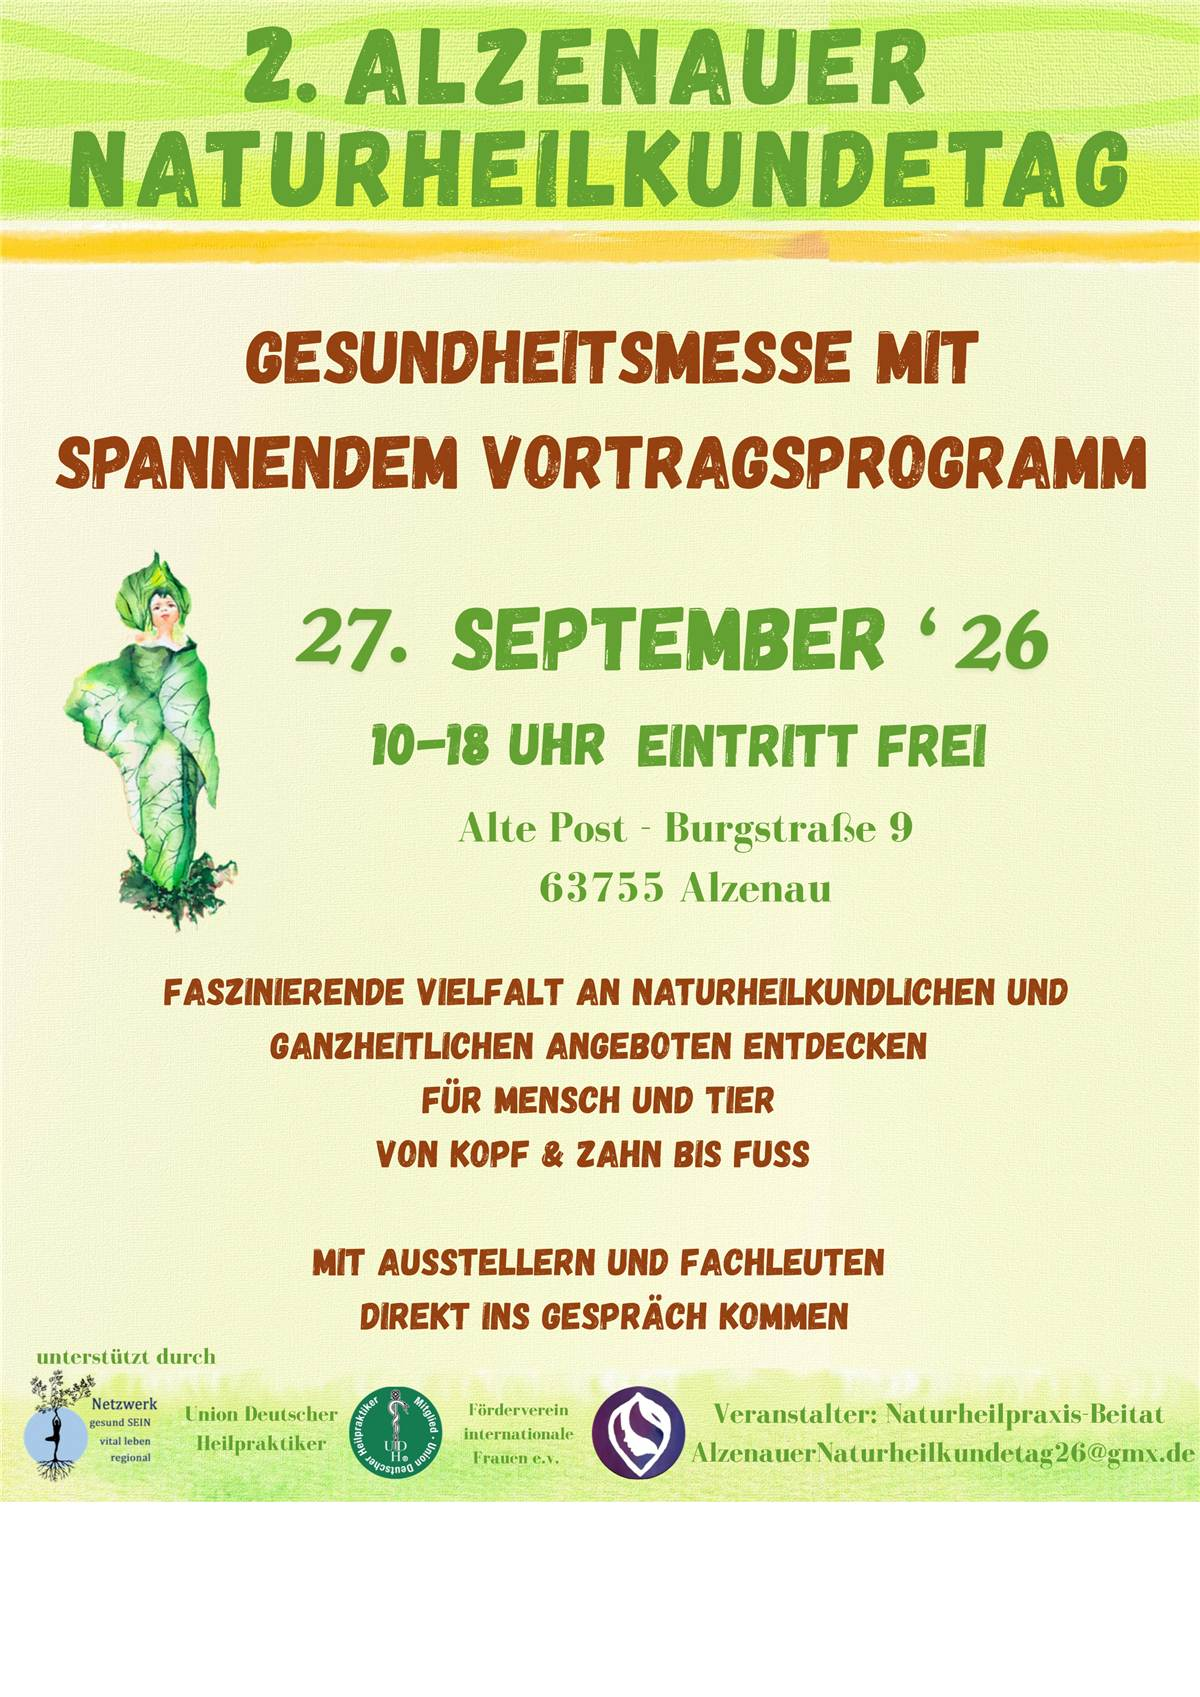
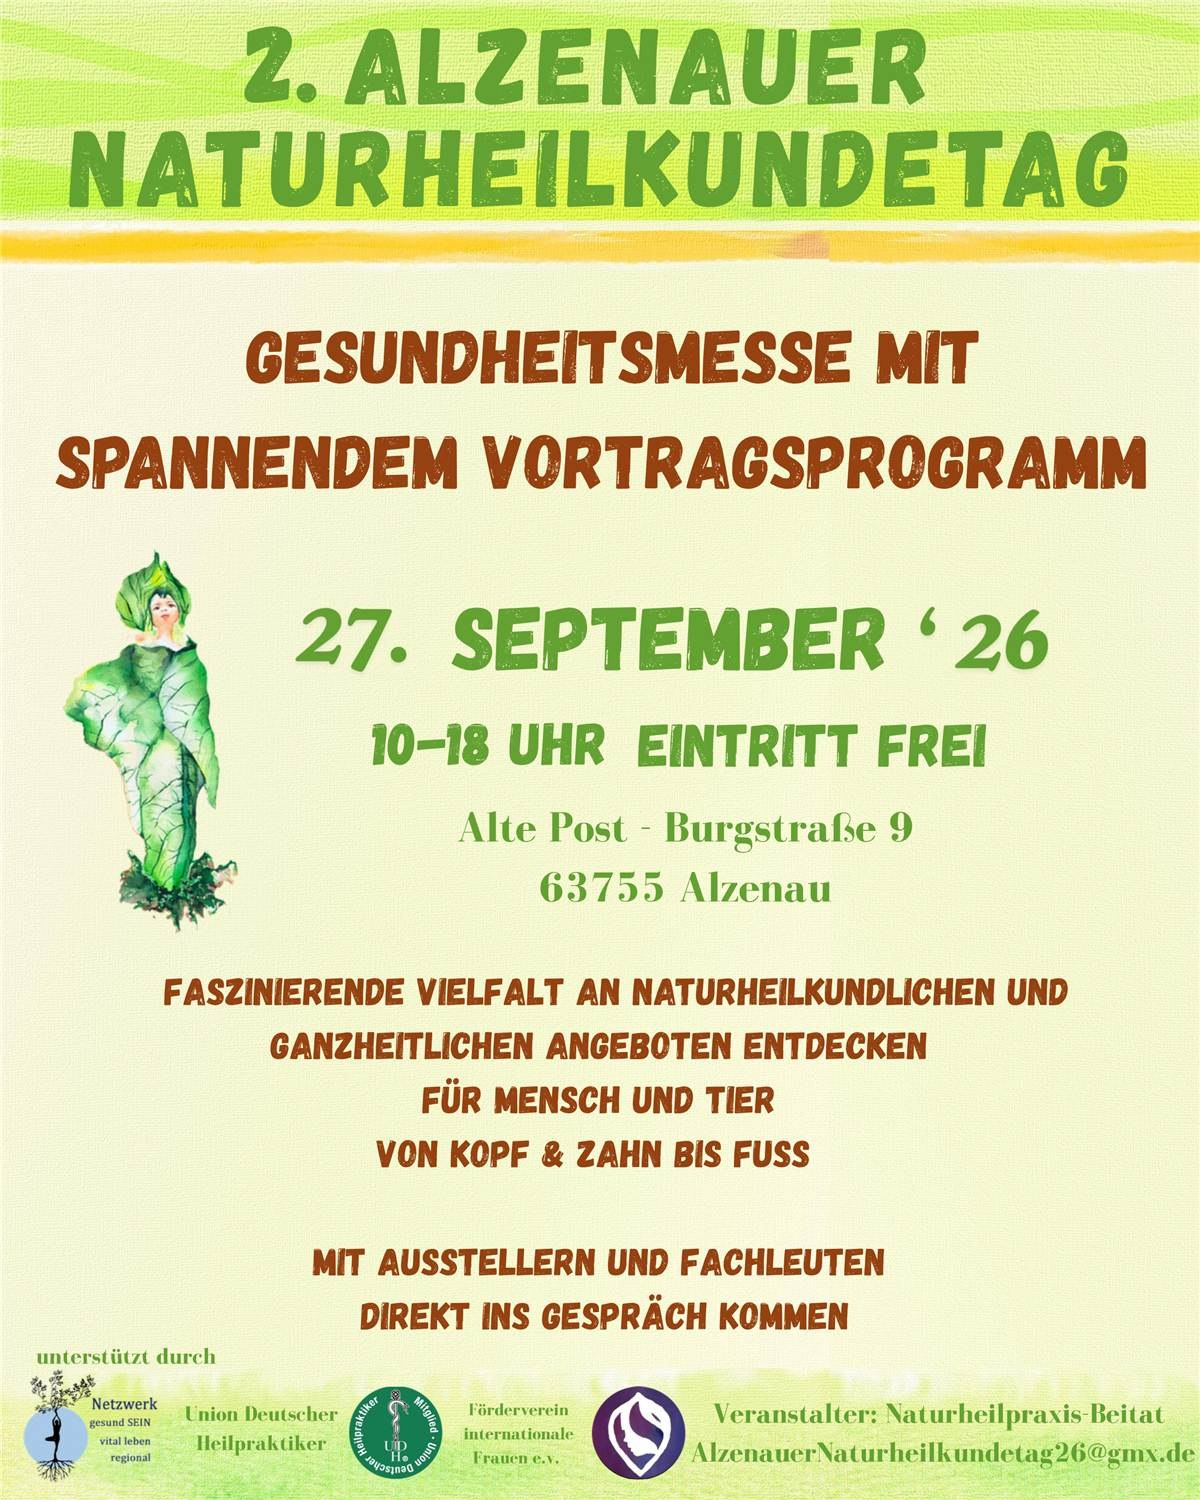
Flyer-Bilder: Leerraum entfernt, Lightbox statt neuem Tab
- naturheilkundetag-flyer-s1/s2.jpg und vortragsprogramm-raum1.jpg am
  unteren Rand auf den tatsaechlichen Inhalt zugeschnitten (vorher
  teils reines Weiss als Leerraum).
- Klick auf ein Flyer-/Dokumentbild oeffnet es jetzt als abgedunkeltes
  Overlay im selben Tab (assets/js/lightbox.js) statt in neuem Tab,
  schliessbar per Klick daneben, X-Button oder Escape.

diff --git a/prototype/events-naturheilkundetag.html b/prototype/events-naturheilkundetag.html
@@ -51,7 +51,7 @@
 <section class="content-section">
   <div class="container two-col">
     <div class="event-hero-flyer">
-      <a href="assets/img/naturheilkundetag-flyer-s1.jpg" target="_blank" rel="noopener" aria-label="Flyer Seite 1 in voller Größe ansehen">
+      <a class="lightbox-link" href="assets/img/naturheilkundetag-flyer-s1.jpg" aria-label="Flyer Seite 1 vergrößert anzeigen">
         <img src="assets/img/naturheilkundetag-flyer-s1.jpg" alt="Flyer 2. Alzenauer Naturheilkundetag, Seite 1: Gesundheitsmesse mit Vortragsprogramm, 27. September 2026, 10–18 Uhr, Alte Post, Burgstraße 9, 63755 Alzenau, Eintritt frei">
         <span class="img-zoom-hint">🔍 Zum Vergrößern anklicken</span>
       </a>
@@ -69,7 +69,7 @@
 
 <section class="content-section">
   <div class="container">
-    <a href="assets/img/naturheilkundetag-flyer-s2.jpg" target="_blank" rel="noopener" aria-label="Flyer Seite 2 in voller Größe ansehen" style="display:inline-block; max-width:520px;">
+    <a class="lightbox-link" href="assets/img/naturheilkundetag-flyer-s2.jpg" aria-label="Flyer Seite 2 vergrößert anzeigen" style="display:inline-block; max-width:520px;">
       <img src="assets/img/naturheilkundetag-flyer-s2.jpg" alt="Flyer Seite 2: Was es zu entdecken gibt – Aussteller und Vortragsprogramm, Erfrischungsgetränke und Spezialitäten der türkischen Küche, Catering vom Hilfs- und Förderverein der Internationalen Frauen e.V." style="border-radius: var(--radius); box-shadow: 0 12px 32px rgba(10,90,22,0.18);">
       <span class="img-zoom-hint">🔍 Zum Vergrößern anklicken</span>
     </a>
@@ -81,7 +81,7 @@
     <h2>Aussteller</h2>
     <p>Das vollständige Ausstellerverzeichnis mit allen Fachrichtungen im Überblick:</p>
     <div class="doc-image-block">
-      <a href="assets/img/naturheilkundetag-ausstellerverzeichnis.jpg" target="_blank" rel="noopener" aria-label="Ausstellerverzeichnis in voller Größe ansehen">
+      <a class="lightbox-link" href="assets/img/naturheilkundetag-ausstellerverzeichnis.jpg" aria-label="Ausstellerverzeichnis vergrößert anzeigen">
         <img class="doc-page" src="assets/img/naturheilkundetag-ausstellerverzeichnis.jpg" alt="Ausstellerverzeichnis 2. Alzenauer Naturheilkundetag, gegliedert nach Medizinischen & Therapeutischen Fachberufen sowie Ganzheitlicher Beratung, Wellness & Entspannung">
         <span class="img-zoom-hint">🔍 Zum Vergrößern anklicken</span>
       </a>
@@ -101,7 +101,7 @@
     <h2>Vortragsprogramm</h2>
     <h3>Raum 1 – Hahnenkamm</h3>
     <div class="doc-image-block">
-      <a href="assets/img/naturheilkundetag-vortragsprogramm-raum1.jpg" target="_blank" rel="noopener" aria-label="Vortragsprogramm Raum 1 in voller Größe ansehen">
+      <a class="lightbox-link" href="assets/img/naturheilkundetag-vortragsprogramm-raum1.jpg" aria-label="Vortragsprogramm Raum 1 vergrößert anzeigen">
         <img class="doc-page" src="assets/img/naturheilkundetag-vortragsprogramm-raum1.jpg" alt="Vortragsprogramm Raum 1 – Hahnenkamm: neun Vorträge mit Uhrzeiten, Referent/in und Vortragstitel">
         <span class="img-zoom-hint">🔍 Zum Vergrößern anklicken</span>
       </a>
@@ -152,5 +152,6 @@
 </div>
 
 <script src="assets/js/nav.js"></script>
+<script src="assets/js/lightbox.js"></script>
 </body>
 </html>

diff --git a/prototype/praxis-schwerpunkte.html b/prototype/praxis-schwerpunkte.html
@@ -52,7 +52,7 @@
     <div class="card-grid">
 
       <div class="img-card">
-        <a class="thumb" href="assets/img/flyer-kreuz.webp" target="_blank" rel="noopener" aria-label="Flyer „Das Kreuz mit dem Kreuz" in voller Größe ansehen">
+        <a class="thumb lightbox-link" href="assets/img/flyer-kreuz.webp" aria-label="Flyer „Das Kreuz mit dem Kreuz" vergrößert anzeigen">
           <img src="assets/img/flyer-kreuz.webp" alt="Flyer: Das Kreuz mit dem Kreuz – Naturheilkunde und Schmerztherapie">
           <span class="img-zoom-hint">🔍 Zum Vergrößern anklicken</span>
         </a>
@@ -64,7 +64,7 @@
       </div>
 
       <div class="img-card">
-        <a class="thumb" href="assets/img/flyer-darm.webp" target="_blank" rel="noopener" aria-label="Flyer „Mein Freund der Darm" in voller Größe ansehen">
+        <a class="thumb lightbox-link" href="assets/img/flyer-darm.webp" aria-label="Flyer „Mein Freund der Darm" vergrößert anzeigen">
           <img src="assets/img/flyer-darm.webp" alt="Flyer: Mein Freund der Darm – Ganzheitliche Naturheilkunde">
           <span class="img-zoom-hint">🔍 Zum Vergrößern anklicken</span>
         </a>
@@ -76,7 +76,7 @@
       </div>
 
       <div class="img-card">
-        <a class="thumb" href="assets/img/flyer-stress-vs.jpg" target="_blank" rel="noopener" aria-label="Flyer „Lässig statt stressig" in voller Größe ansehen">
+        <a class="thumb lightbox-link" href="assets/img/flyer-stress-vs.jpg" aria-label="Flyer „Lässig statt stressig" vergrößert anzeigen">
           <img src="assets/img/flyer-stress-vs.jpg" alt="Flyer: Lässig statt stressig – Ganzheitliche Stress-Medizin &amp; Achtsamkeitstraining">
           <span class="img-zoom-hint">🔍 Zum Vergrößern anklicken</span>
         </a>
@@ -88,7 +88,7 @@
       </div>
 
       <div class="img-card">
-        <a class="thumb" href="assets/img/flyer-frau.webp" target="_blank" rel="noopener" aria-label="Flyer „Von Frau zu Frau" in voller Größe ansehen">
+        <a class="thumb lightbox-link" href="assets/img/flyer-frau.webp" aria-label="Flyer „Von Frau zu Frau" vergrößert anzeigen">
           <img src="assets/img/flyer-frau.webp" alt="Flyer: Von Frau zu Frau – Ganzheitliche Frauenheilkunde">
           <span class="img-zoom-hint">🔍 Zum Vergrößern anklicken</span>
         </a>
@@ -137,5 +137,6 @@
 </div>
 
 <script src="assets/js/nav.js"></script>
+<script src="assets/js/lightbox.js"></script>
 </body>
 </html>

diff --git a/prototype/assets/js/lightbox.js b/prototype/assets/js/lightbox.js
@@ -1,0 +1,50 @@
+// Lightbox fuer Flyer-/Dokumentbilder: vergroessert im selben Tab statt neuem Tab,
+// abgedunkelter Hintergrund, Klick ausserhalb des Bildes (oder Escape) schliesst es.
+// Betrifft alle <a class="lightbox-link"> mit einem <img> darin.
+document.addEventListener('DOMContentLoaded', function () {
+  var links = document.querySelectorAll('a.lightbox-link');
+  if (!links.length) return;
+
+  var overlay = document.createElement('div');
+  overlay.className = 'lightbox-overlay';
+  overlay.setAttribute('role', 'dialog');
+  overlay.setAttribute('aria-modal', 'true');
+  overlay.setAttribute('aria-hidden', 'true');
+  overlay.innerHTML = '<button type="button" class="lightbox-close" aria-label="Schließen">&times;</button><img class="lightbox-img" alt="">';
+  document.body.appendChild(overlay);
+
+  var imgEl = overlay.querySelector('.lightbox-img');
+  var closeBtn = overlay.querySelector('.lightbox-close');
+
+  function openLightbox(href, alt) {
+    imgEl.src = href;
+    imgEl.alt = alt || '';
+    overlay.classList.add('is-open');
+    overlay.setAttribute('aria-hidden', 'false');
+    document.body.classList.add('lightbox-active');
+  }
+
+  function closeLightbox() {
+    overlay.classList.remove('is-open');
+    overlay.setAttribute('aria-hidden', 'true');
+    document.body.classList.remove('lightbox-active');
+    imgEl.src = '';
+  }
+
+  links.forEach(function (link) {
+    link.addEventListener('click', function (e) {
+      e.preventDefault();
+      var img = link.querySelector('img');
+      openLightbox(link.getAttribute('href'), img ? img.alt : '');
+    });
+  });
+
+  // Klick auf den abgedunkelten Hintergrund (nicht auf das Bild selbst) schliesst die Lightbox
+  overlay.addEventListener('click', function (e) {
+    if (e.target === overlay) closeLightbox();
+  });
+  closeBtn.addEventListener('click', closeLightbox);
+  document.addEventListener('keydown', function (e) {
+    if (e.key === 'Escape' && overlay.classList.contains('is-open')) closeLightbox();
+  });
+});

diff --git a/prototype/assets/css/style.css b/prototype/assets/css/style.css
@@ -750,6 +750,45 @@ footer.site-footer {
 }
 .map-consent-loaded iframe { display: block; }
 
+/* ---------- Lightbox (Flyer-/Dokumentbilder vergrößert im selben Tab) ----------
+   Wird per assets/js/lightbox.js für alle a.lightbox-link erzeugt: ein Overlay
+   mit abgedunkeltem Hintergrund, Klick außerhalb des Bildes oder Escape schließt es. */
+.lightbox-overlay {
+  display: none;
+  position: fixed;
+  inset: 0;
+  background: rgba(20, 20, 15, 0.88);
+  z-index: 1000;
+  align-items: center;
+  justify-content: center;
+  padding: 6vh 5vw;
+  cursor: zoom-out;
+}
+.lightbox-overlay.is-open { display: flex; }
+.lightbox-img {
+  max-width: 100%;
+  max-height: 100%;
+  border-radius: var(--radius);
+  box-shadow: 0 20px 60px rgba(0, 0, 0, 0.5);
+  cursor: default;
+}
+.lightbox-close {
+  position: fixed;
+  top: 16px;
+  right: 18px;
+  width: 44px;
+  height: 44px;
+  border-radius: 50%;
+  border: none;
+  background: rgba(255, 255, 255, 0.15);
+  color: #fff;
+  font-size: 1.6rem;
+  line-height: 1;
+  cursor: pointer;
+}
+.lightbox-close:hover { background: rgba(255, 255, 255, 0.3); }
+body.lightbox-active { overflow: hidden; }
+
 /* ---------- Reduced motion ---------- */
 @media (prefers-reduced-motion: reduce) {
   html { scroll-behavior: auto; }

diff --git a/CHANGELOG.md b/CHANGELOG.md
@@ -1,5 +1,27 @@
 # Changelog
 
+## 2026-09-03 (später, Teil 5) – Lightbox statt neuem Tab für Flyer-Bilder
+
+### Geändert
+- Neue `assets/js/lightbox.js` (Vanilla-JS, keine Abhängigkeiten): Klick auf ein Flyer-/Dokumentbild
+  öffnet es jetzt als vergrößertes Overlay im selben Tab (abgedunkelter Hintergrund) statt in einem
+  neuen Browser-Tab. Schließen per Klick außerhalb des Bildes, X-Button oder Escape-Taste.
+  CSS: `.lightbox-overlay`/`.lightbox-img`/`.lightbox-close` in `style.css`.
+- Alle bisherigen `target="_blank"`-Bild-Links (4× `praxis-schwerpunkte.html`, 4× `events-
+  naturheilkundetag.html`) auf `class="lightbox-link"` umgestellt, Skript in beiden Seiten eingebunden.
+
+## 2026-09-03 (später, Teil 4) – Leeren Rand an drei Event-Bildern entfernt
+
+### Behoben
+- `naturheilkundetag-flyer-s1.jpg`, `-s2.jpg` und `-vortragsprogramm-raum1.jpg` hatten unten einen
+  großen Leerbereich (bei S1/S2 reines Weiß, bestätigt per Pixelfarbe) statt direkt am Inhalt zu enden.
+  Per Zeilen-Varianz-Scan automatisch erkannt, wo der eigentliche Inhalt endet, und dort zugeschnitten
+  (S1: 1697→1500px, S2: 1697→1516px, Vortragsprogramm Raum 1: 1697→1498px Höhe).
+- Geprüft, aber unverändert gelassen: `flyer-darm.webp`/`flyer-frau.webp` haben nur einen schmalen
+  (~64px) einfarbigen Rand – das ist der Bilderrahmen aus der Originalvorlage, kein Leerraum.
+  `flyer-kreuz.webp`, `flyer-stress-vs.jpg`, `naturheilkundetag-ausstellerverzeichnis.jpg` waren bereits
+  eng zugeschnitten.
+
 ## 2026-09-03 (später, Teil 3) – Deploy-Fehler auf v0.2.0 behoben
 
 ### Behoben
